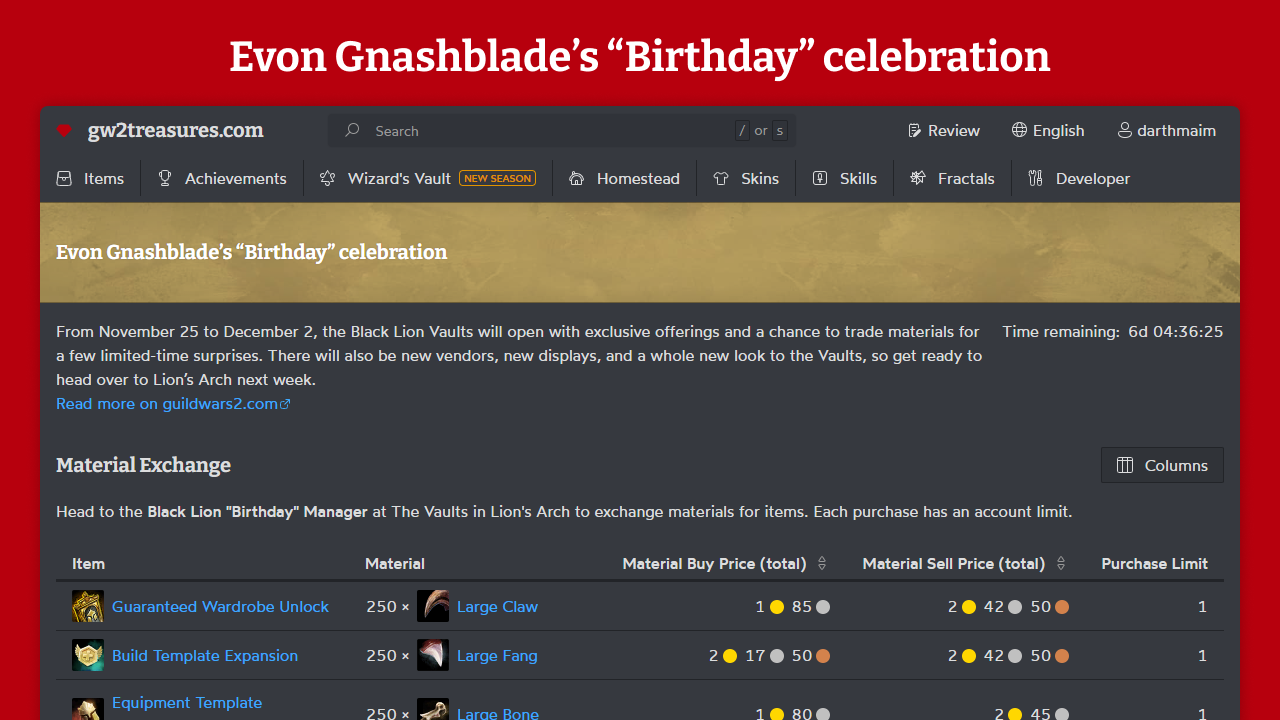
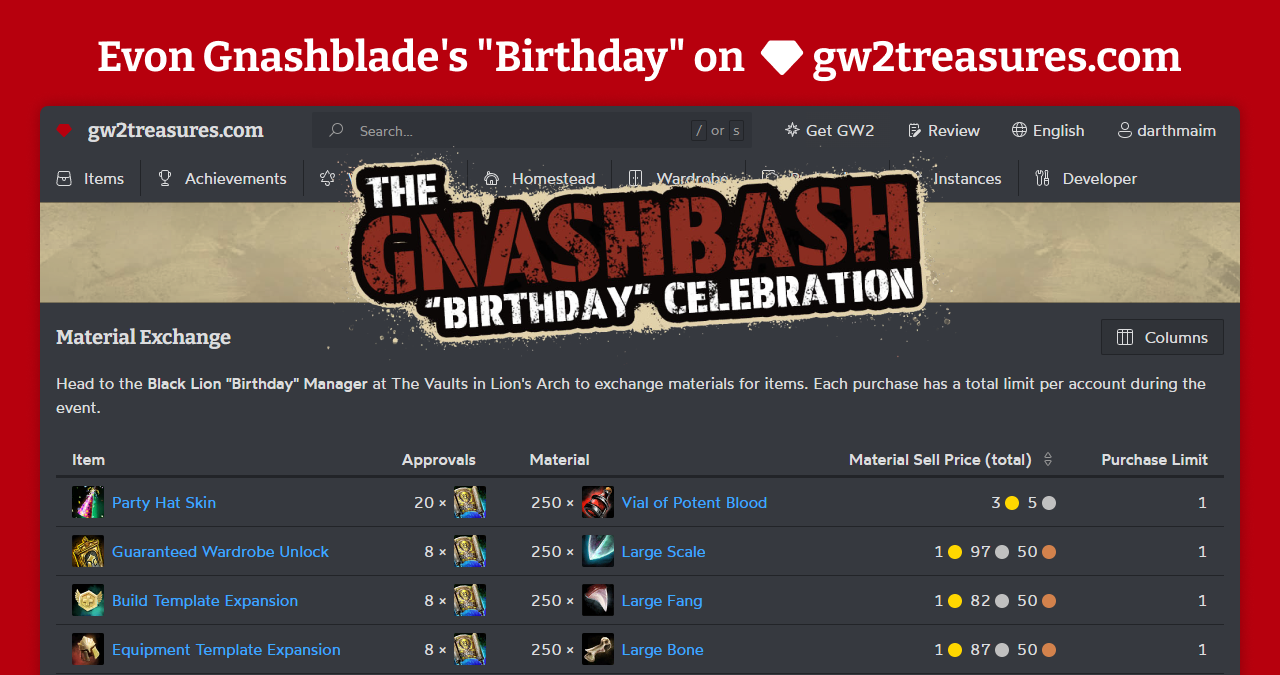
Evon Gnashblade's Birthday 2025

diff --git a/apps/web/app/[language]/bonus-event/evon-gnashblades-birthday/page.tsx b/apps/web/app/[language]/bonus-event/evon-gnashblades-birthday/page.tsx
@@ -15,29 +15,30 @@ import { Trans } from '@/components/I18n/Trans';
 import { Icon } from '@gw2treasures/ui';
 import { ExternalLink } from '@gw2treasures/ui/components/Link/ExternalLink';
 import ogImage from './og.png';
-import { WizardsVaultObjective } from '@/components/WizardsVault/WizardsVaultObjective';
 import { PageView } from '@/components/PageView/PageView';
-import Link from 'next/link';
 import { Notice } from '@gw2treasures/ui/components/Notice/Notice';
 import { createMetadata } from '@/lib/metadata';
 import { getLanguage } from '@/lib/translate';
+import { BonusEvent, getBonusEvent } from '../bonus-events';
 
-const endsAt = new Date('2024-12-02T17:00:00.000Z');
+const approvalItemId = 106773;
 
 const data = [
-  { itemId: 79696, materialId: 24350, quantity: 250, purchaseLimit: 1, gemPrice: null },
-  { itemId: 92209, materialId: 24356, quantity: 250, purchaseLimit: 1, gemPrice: 500 },
-  { itemId: 92203, materialId: 24341, quantity: 250, purchaseLimit: 1, gemPrice: 500 },
-  { itemId: 82060, materialId: 24282, quantity: 50, purchaseLimit: 5, gemPrice: null },
-  { itemId: 86694, materialId: 24288, quantity: 50, purchaseLimit: 5, gemPrice: null },
-  { itemId: 19980, materialId: 24357, quantity: 50, purchaseLimit: 3, gemPrice: 87 },
+  { itemId: 106797, materialId: 24294, quantity: 250, purchaseLimit: 1, gemPrice: null, approvals: 20 }, // Party Hat Skin
+  { itemId: 79696, materialId: 24288, quantity: 250, purchaseLimit: 1, gemPrice: null, approvals: 8 }, // Guaranteed Wardrobe Unlock
+  { itemId: 92209, materialId: 24356, quantity: 250, purchaseLimit: 1, gemPrice: 500, approvals: 8 }, // Build Template Expansion
+  { itemId: 92203, materialId: 24341, quantity: 250, purchaseLimit: 1, gemPrice: 500, approvals: 8 }, // Equipment Template Expansion
+  { itemId: 82060, materialId: 24282, quantity: 50, purchaseLimit: 5, gemPrice: null, approvals: 1 }, // Black Lion Booster
+  { itemId: 86694, materialId: 19748, quantity: 50, purchaseLimit: 5, gemPrice: null, approvals: 2 }, // Black Lion Statuette
+  { itemId: 19980, materialId: 19700, quantity: 150, purchaseLimit: 3, gemPrice: 87, approvals: 3 }, // Black Lion Chest Key
+  // { itemId: 86181, approvals: 1 } // Bead of Liquid Karma
 ];
 
 const loadItems = cache(async function loadItems() {
-  const itemIds = data.flatMap(({ itemId, materialId }) => [itemId, materialId]);
+  const itemIds = data.flatMap(({ itemId, materialId }) => materialId ? [itemId, materialId] : itemId);
 
   const items = await db.item.findMany({
-    where: { id: { in: itemIds }},
+    where: { id: { in: [approvalItemId, ...itemIds] }},
     select: {
       ...linkProperties,
       tpTradeable: true, tpCheckedAt: true,
@@ -50,29 +51,30 @@ const loadItems = cache(async function loadItems() {
   return Object.fromEntries(groupById(items).entries());
 }, ['evon-gnashblades-birthday'], { revalidate: 60 * 60 });
 
-const loadObjective = cache(async function loadObjective() {
-  const objective = await db.wizardsVaultObjective.findUnique({
-    where: { id: 290 }
-  });
+// const loadObjective = cache(async function loadObjective() {
+//   const objective = await db.wizardsVaultObjective.findUnique({
+//     where: { id: 290 }
+//   });
 
-  return objective!;
-}, ['evon-gnashblades-birthday-objective'], { revalidate: 60 * 60 * 24 });
+//   return objective!;
+// }, ['evon-gnashblades-birthday-objective'], { revalidate: 60 * 60 * 24 });
 
 export default async function EventPage() {
   const language = await getLanguage();
-  const [items, objective] = await Promise.all([loadItems(), loadObjective()]);
+  const [items] = await Promise.all([loadItems()/*, loadObjective()*/]);
   const Exchange = createDataTable(data, (_, index) => index);
 
-  const isOver = endsAt < new Date();
+  const event = getBonusEvent(BonusEvent.EvonGnashbladesBirthday);
+  const isOver = !event || event.endsAt < new Date();
 
   return (
     <HeroLayout color="#dacaa1" hero={<Headline id="birthday">Evon Gnashblade’s “Birthday” celebration</Headline>}>
       {isOver && <Notice>This bonus event is currently not active.</Notice>}
 
-      <Description actions={!isOver && <>Time remaining: <ResetTimer reset={endsAt}/></>}>
+      <Description actions={!isOver && <>Time remaining: <ResetTimer reset={event.endsAt}/></>}>
         From November 25 to December 2, the Black Lion Vaults will open with exclusive offerings and a chance to trade materials for a few limited-time surprises.
         There will also be new vendors, new displays, and a whole new look to the Vaults, so get ready to head over to Lion’s Arch next week.<br/>
-        <ExternalLink href="https://www.guildwars2.com/en/news/celebrate-evon-gnashblades-birthday-with-great-savings-and-improvements-to-the-vaults/">Read more on guildwars2.com</ExternalLink>
+        <ExternalLink href="https://www.guildwars2.com/en/news/the-gnashbash-birthday-celebration-is-back/">Read more on guildwars2.com</ExternalLink>
       </Description>
 
       <Headline id="materials" actions={<ColumnSelect table={Exchange}/>}>Material Exchange</Headline>
@@ -80,6 +82,17 @@ export default async function EventPage() {
 
       <Exchange.Table>
         <Exchange.Column title="Item" id="item">{({ itemId }) => <ItemLink item={items[itemId]}/>}</Exchange.Column>
+        <Exchange.Column title="Approvals" id="approvals">
+          {({ approvals }) => (
+            <div style={{ display: 'flex', alignItems: 'center', gap: 8, whiteSpace: 'nowrap' }}>
+              <span>
+                <span style={{ fontFeatureSettings: '"tnum"', minWidth: '3ch', display: 'inline-block', textAlign: 'right' }}>{approvals}</span>
+                {' × '}
+              </span>
+              <ItemLink item={items[approvalItemId]}>{null}</ItemLink>
+            </div>
+          )}
+        </Exchange.Column>
         <Exchange.Column title="Material" id="material">
           {({ materialId, quantity }) => (
             <div style={{ display: 'flex', alignItems: 'center', gap: 8, whiteSpace: 'nowrap' }}>
@@ -130,10 +143,14 @@ export default async function EventPage() {
         <Exchange.Column title="Purchase Limit" id="limit" align="right">{({ purchaseLimit }) => <FormatNumber value={purchaseLimit}/>}</Exchange.Column>
       </Exchange.Table>
 
-      <Headline id="wizards-vault">Wizard&apos;s Vault</Headline>
-      <p>Go to <Link href="/wizards-vault">Wizard&apos;s Vault</Link> to view all your active Wizard&apos;s Vault objectives.</p>
+      {/* <Headline id="wizards-vault">Wizard&apos;s Vault</Headline>
 
       <WizardsVaultObjective objective={objective} language={language}/>
+
+      <p style={{ border: '1px solid var(--color-border)', marginTop: 48, padding: 16 }}>
+        <Icon icon="wizards-vault"/>{' '}
+        Visit the <Link href="/wizards-vault">Wizard&apos;s Vault page</Link> to view all your active Wizard&apos;s Vault objectives.
+      </p> */}
 
       <PageView page="bonus-event/evon-gnashblades-birthday"/>
     </HeroLayout>

diff --git a/apps/web/app/[language]/bonus-event/bonus-events.ts b/apps/web/app/[language]/bonus-event/bonus-events.ts
@@ -35,5 +35,6 @@ export function isBonusEventActive(bonusEvent: BonusEventInfo | undefined, times
 export const bonusEvents: BonusEventInfo[] = [
   { type: BonusEvent.EvonGnashbladesBirthday, startsAt: new Date('2024-11-25T17:00:00.000Z'), endsAt: new Date('2024-12-02T17:00:00.000Z') },
   { type: BonusEvent.DungeonRush, startsAt: new Date('2024-04-08T16:00:00.000Z'), endsAt: new Date('2025-04-15T19:00:00.000Z') },
-  { type: BonusEvent.FractalIncursion, startsAt: new Date('2025-09-09T16:00:00.000Z'), endsAt: new Date('2025-10-07T19:00:00.000Z') }
+  { type: BonusEvent.FractalIncursion, startsAt: new Date('2025-09-09T16:00:00.000Z'), endsAt: new Date('2025-10-07T19:00:00.000Z') },
+  { type: BonusEvent.EvonGnashbladesBirthday, startsAt: new Date('2025-11-24T17:00:00.000Z'), endsAt: new Date('2025-12-02T17:00:00.000Z') },
 ];

diff --git a/apps/web/app/[language]/(home)/page.tsx b/apps/web/app/[language]/(home)/page.tsx
@@ -24,6 +24,7 @@ import { getLanguage, getTranslate } from '@/lib/translate';
 import { BonusEvent, getActiveBonusEvent } from '../bonus-event/bonus-events';
 import { createMetadata } from '@/lib/metadata';
 import { HalloweenHero, heroNoImageClass } from '../festival/halloween/_hero/hero';
+import { EvonGnashbladesBirthdayLink } from '../bonus-event/evon-gnashblades-birthday/EvonGnashbladesBirthdayLink';
 
 async function HomePage() {
   const language = await getLanguage();
@@ -58,6 +59,7 @@ async function HomePage() {
       </Suspense>
 
       {bonusEvent?.type === BonusEvent.DungeonRush && (<DungeonRushLink/>)}
+      {bonusEvent?.type === BonusEvent.EvonGnashbladesBirthday && (<EvonGnashbladesBirthdayLink/>)}
 
       <Headline id="new-items">
         <Trans language={language} id="items.new"/>
